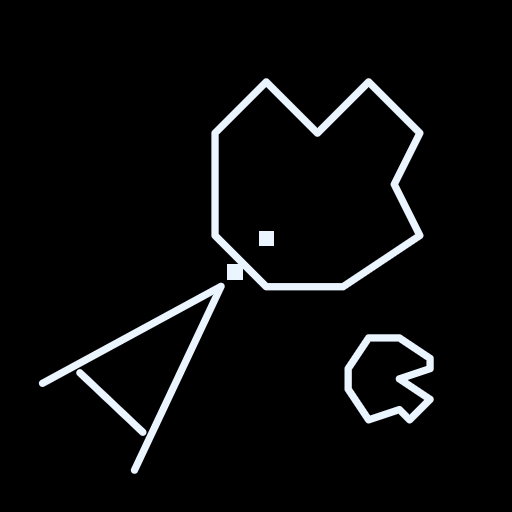
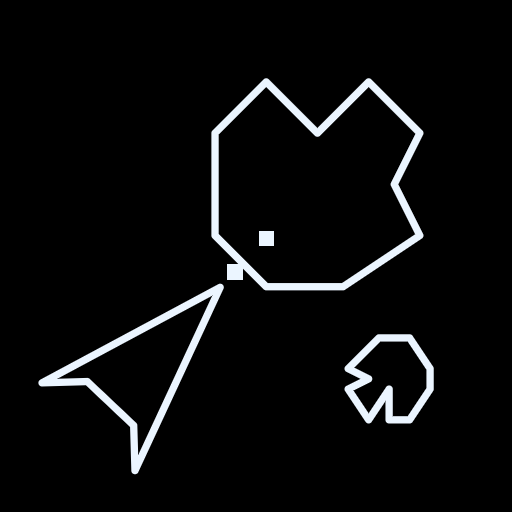
Use the cabinet's own shapes; fit the picture to what can be seen
The four rocks, the ship and its flame and the saucer now come from the
vector ROM (as listed at computerarcheology.com), turned from the beam's
moves into outlines.

On iPhone the picture was sized to the whole window, so part of it could sit
under Safari's toolbar or the safe-area insets: the ship wrapped off the top
on time but stayed out of sight at the bottom for a while. The stage now
takes the visual viewport, and the picture fits inside the safe area, with a
faint edge where it doesn't fill the screen.

diff --git a/src/render/screen.js b/src/render/screen.js
@@ -6,21 +6,27 @@
 import { W, H, ROCK_SCALE } from '../game/asteroids.js';
 import { strokes } from './font.js';
 
-// the four rock outlines, on a grid of -4..4
+// The cabinet's own outlines, from its vector ROM (the listing at
+// computerarcheology.com/Arcade/Asteroids/VectorROM.html), turned from the
+// beam's relative moves into points and flipped to y down. The rocks are on a
+// grid of -4..4; the ship points along +x on a grid of -5..7.
 export const ROCKS = [
-  [[-4, -2], [-2, -4], [0, -2], [2, -4], [4, -2], [3, 0], [4, 2], [1, 4], [-2, 4], [-4, 2]],
-  [[-4, -2], [-2, -4], [2, -4], [4, -1], [4, 1], [2, 4], [0, 4], [0, 1], [-2, 4], [-4, 1], [-3, 0]],
-  [[-4, -1], [-2, -4], [1, -4], [4, -2], [4, -1], [1, 0], [4, 2], [2, 4], [1, 3], [-2, 4], [-4, 1]],
-  [[-4, -2], [-1, -2], [-2, -4], [1, -4], [4, -2], [4, 1], [2, 4], [-1, 4], [-1, 1], [-4, 1]],
+  [[0, -2], [2, -4], [4, -2], [3, 0], [4, 2], [1, 4], [-2, 4], [-4, 2], [-4, -2], [-2, -4], [0, -2]],
+  [[2, -1], [4, -2], [2, -4], [0, -3], [-2, -4], [-4, -2], [-3, 0], [-4, 2], [-2, 4], [-1, 3], [2, 4], [4, 1], [2, -1]],
+  [[-2, 0], [-4, 1], [-2, 4], [0, 1], [0, 4], [2, 4], [4, 1], [4, -1], [2, -4], [-1, -4], [-4, -1], [-2, 0]],
+  [[1, 0], [4, -1], [4, -2], [1, -4], [-2, -4], [-1, -2], [-4, -2], [-4, 1], [-2, 4], [1, 3], [2, 4], [4, 2], [1, 0]],
 ];
-// the ship pointing along +x: two long sides and the bar across the back; the flame
-const SHIP = [[[17, 0], [-12, -9.5]], [[17, 0], [-12, 9.5]], [[-7, -6.5], [-7, 6.5]]];
-const FLAME = [[-7, -3.5], [-18, 0], [-7, 3.5]];
-// the saucer, on a grid of -10..10 (the big one at 2 px a unit, the small at 1)
+// the ship: the bar across the back, out to a fin, up to the nose and back by
+// the other fin; the flame comes out of the bar
+const SHIP_K = 2.4;
+const SHIP = [[[-3, -2], [-3, 2], [-5, 4], [7, 0], [-5, -4], [-3, -2]].map(([x, y]) => [x * SHIP_K, y * SHIP_K])];
+const FLAME = [[-3, -2], [-7, 0], [-3, 2]].map(([x, y]) => [x * SHIP_K, y * SHIP_K]);
+// the saucer, on a grid of -5..5 (the big one at 4 px a unit, the small at 2):
+// the hull, and the lines across where the dome and the rim meet it
 const SAUCER = [
-  [[-10, 0], [10, 0]],
-  [[-10, 0], [-4, 4], [4, 4], [10, 0], [4, -4], [-4, -4], [-10, 0]],
-  [[-4, -4], [-2, -8], [2, -8], [4, -4]],
+  [[-5, 1], [-2, 3], [2, 3], [5, 1], [2, -1], [1, -3], [-1, -3], [-2, -1], [-5, 1]],
+  [[-5, 1], [5, 1]],
+  [[-2, -1], [2, -1]],
 ];
 
 export class Screen {
@@ -62,7 +68,7 @@ export class Screen {
     this.dots.length = 0;
     for (const r of g.rocks) {
       const k = ROCK_SCALE[r.size];
-      this.wrapped(r.x, r.y, k * 4.5, (x, y) => this.poly([...ROCKS[r.shape], ROCKS[r.shape][0]], x, y, k));
+      this.wrapped(r.x, r.y, k * 4.5, (x, y) => this.poly(ROCKS[r.shape], x, y, k));
     }
     const s = g.ship;
     if (s && g.shipState === 'alive') {
@@ -74,8 +80,8 @@ export class Screen {
     }
     const u = g.saucer;
     if (u) {
-      const k = u.small ? 1 : 2;
-      this.wrapped(u.x, u.y, 10 * k, (x, y) => { for (const seg of SAUCER) this.poly(seg, x, y, k); });
+      const k = u.small ? 2 : 4;
+      this.wrapped(u.x, u.y, 5 * k, (x, y) => { for (const seg of SAUCER) this.poly(seg, x, y, k); });
     }
     for (const b of g.shots) this.dot(b.x, b.y, 1);
     for (const b of g.saucerShots) this.dot(b.x, b.y, 1);

diff --git a/src/input/touch.js b/src/input/touch.js
@@ -16,7 +16,8 @@
 // Swap sides mirrors either layout for left-handers. In landscape the
 // controls sit see-through over the bottom corners; in portrait they go in the
 // space under the picture (main.js asks for that space with `reserved`).
-// A quick tap anywhere starts a game (consumeStart).
+// A quick tap anywhere starts a game (consumeStart). main.js calls layout()
+// when the screen changes size.
 
 const STORE_KEY = 'asteroids.touch';
 const DEFAULTS = { mode: 'buttons', swap: false, autoFire: true, size: 1, opacity: 0.4 };
@@ -32,7 +33,6 @@ export class Touch {
     this.buildOverlay();
     this.bindEvents();
     this.applySettings();
-    window.addEventListener('resize', () => this.layout());
   }
 
   get active() { return this.seenTouch; }
@@ -86,7 +86,7 @@ export class Touch {
   zoneAt(x, y) {
     const h = this.geom.hyper, pad = this.geom.u * 0.25;
     if (x > h.x - pad && x < h.x + h.w + pad && y > h.y - pad && y < h.y + h.h + pad) return 'hyper';
-    const left = x < window.innerWidth / 2;
+    const left = x < this.el.clientWidth / 2;
     return left !== this.settings.swap ? 'turn' : 'act';
   }
 
@@ -226,11 +226,11 @@ export class Touch {
     this.onLayout?.();
   }
 
-  get portrait() { return window.innerHeight > window.innerWidth; }
+  get portrait() { return this.el.clientHeight > this.el.clientWidth; }
 
-  /** Geometry in window pixels. */
+  /** Geometry in window pixels, over the visible area main.js sized the stage to. */
   layout() {
-    const Wd = window.innerWidth, Hd = window.innerHeight;
+    const Wd = this.el.clientWidth, Hd = this.el.clientHeight;
     const cs = getComputedStyle(document.documentElement);
     const inset = (n) => parseFloat(cs.getPropertyValue(n)) || 0;
     const sb = inset('--sat-b'), sl = inset('--sat-l'), sr = inset('--sat-r');
@@ -274,7 +274,7 @@ export class Touch {
   /** The height at the bottom of the screen the controls take up (for portrait layout). */
   get reserved() {
     if (!this.active || !this.portrait) return 0;
-    return window.innerHeight - (this.geom.hyper.y - this.geom.u * 0.4);
+    return this.el.clientHeight - (this.geom.hyper.y - this.geom.u * 0.4);
   }
 }
 

diff --git a/src/main.js b/src/main.js
@@ -133,14 +133,23 @@ function main() {
   }
 
   // ---- layout ----
+  // Sized to the part of the screen that can be seen: on iPhone, Safari's
+  // toolbars can sit over the bottom of the window, and the home bar and the
+  // camera cut-out take the safe-area insets (the stage's padding). Any of the
+  // picture under them would hide the ship as it wraps between top and bottom.
   function fit() {
     const stage = document.getElementById('stage');
-    const vw = stage.clientWidth, vh = stage.clientHeight;
+    const vv = window.visualViewport;
+    if (vv) Object.assign(stage.style, { inset: 'auto', left: `${vv.offsetLeft}px`, top: `${vv.offsetTop}px`, width: `${vv.width}px`, height: `${vv.height}px` });
+    touch.layout();
+    const cs = getComputedStyle(stage), pad = (k) => parseFloat(cs[k]) || 0;
+    const vw = stage.clientWidth - pad('paddingLeft') - pad('paddingRight');
+    const vh = stage.clientHeight - pad('paddingTop') - pad('paddingBottom');
     const portrait = vh > vw;
-    const reserved = touch.reserved;
+    const reserved = touch.reserved && Math.max(0, touch.reserved - pad('paddingBottom'));
     const availH = portrait && reserved ? Math.max(vh * 0.4, vh - reserved) : vh;
     const scale = Math.min(vw / SCREEN_W, availH / SCREEN_H);
-    const cw = Math.round(SCREEN_W * scale), chh = Math.round(SCREEN_H * scale);
+    const cw = Math.floor(SCREEN_W * scale), chh = Math.floor(SCREEN_H * scale);
     canvas.style.width = `${cw}px`;
     canvas.style.height = `${chh}px`;
     const dpr = Math.min(3, window.devicePixelRatio || 1);
@@ -149,6 +158,8 @@ function main() {
     stage.classList.toggle('top', portrait && reserved > 0);
   }
   window.addEventListener('resize', fit);
+  window.visualViewport?.addEventListener('resize', fit);
+  window.visualViewport?.addEventListener('scroll', fit);
   touch.onLayout = fit;
   fit();
 

diff --git a/style.css b/style.css
@@ -22,7 +22,7 @@ html, body {
   touch-action: none;
 }
 #stage.top { align-items: flex-start; }
-#stage.top #screen { outline: 1px solid #1c2633; } /* in portrait, where the picture ends */
+#screen { outline: 1px solid #1c2633; } /* where the picture ends, when it doesn't fill the screen (it wraps there) */
 
 #screen {
   background: #000;

diff --git a/sw.js b/sw.js
@@ -1,6 +1,6 @@
 // Service worker: caches the whole app on install so it launches offline.
 // Bump VERSION whenever any file changes, so clients pick up the new build.
-const VERSION = 'v1';
+const VERSION = 'v2';
 const CACHE = `asteroids-${VERSION}`;
 const FILES = [
   './', 'index.html', 'style.css', 'manifest.webmanifest',
